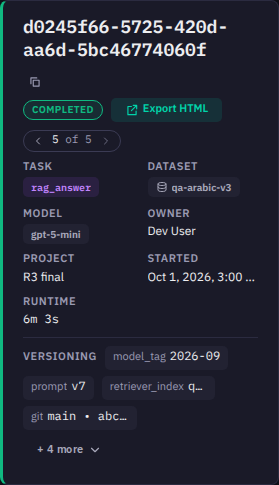
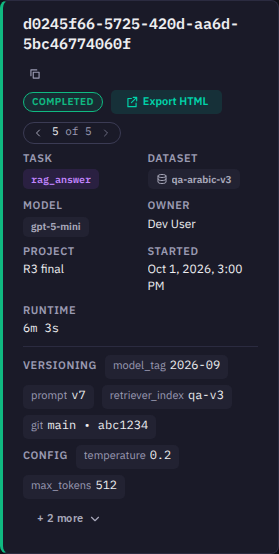
fix(run-detail): round 3 review fixes (header on a phone, section heights, curve labels, box hover)
Compact chip clamp five lines (six chips visible) and no truncated facts or chips at 279px; section-level height
ceilings measured and amended in run-detail.md (repeat, categories, header); by-pass and category rows are compact;
no duplicate curve label at k=1 and no label on the last x tick; box plot Mean hit area is the diamond only; the 390
by-pass table keeps Errors inside the card.

diff --git a/frontend/e2e/run-detail/redesign3-header.spec.ts b/frontend/e2e/run-detail/redesign3-header.spec.ts
@@ -81,10 +81,19 @@ for (const width of [1440, 390]) {
       await expect(h.getByTestId('hero-runtime')).toBeVisible();
       // versioning, git, config and the first metadata chips are in view without a click
       const band = h.getByRole('group', { name: 'Versioning, config and metadata' });
-      // (at 279px the three-line clamp holds the versioning chips; config and metadata wait behind "+ N more":
-      // deviation recorded in redesign3/impl-notes.md)
-      const texts = ['model_tag', '2026-09', 'prompt', 'v7', 'retriever_index', 'qa-v3'];
-      if (width === 1440) texts.push('main • abc1234', 'temperature', '0.2', 'max_tokens', '512');
+      const texts = [
+        'model_tag',
+        '2026-09',
+        'prompt',
+        'v7',
+        'retriever_index',
+        'qa-v3',
+        'main • abc1234',
+        'temperature',
+        '0.2',
+        'max_tokens',
+        '512',
+      ];
       for (const text of texts) {
         const el = band.getByText(text, { exact: true }).first();
         await expect(el).toBeVisible();
@@ -103,7 +112,7 @@ for (const width of [1440, 390]) {
     test('P6-3, P6-4: height ceilings and the first section close to the top', async ({ page }) => {
       await openRun(page, s.slug, classic);
       const h = (await hero(page).boundingBox())!.height;
-      const ceiling = width === 1440 ? 200 : 520;
+      const ceiling = width === 1440 ? 200 : 570; // compact ceiling amended 520 -> 570 (run-detail.md P6-3)
       expect(h).toBeLessThanOrEqual(ceiling);
       if (width === 1440) {
         const top = await page
@@ -229,9 +238,7 @@ test('P6-8, P6-9: the clamp keeps 54px (84 compact), "+ N more" is exact, openin
   await page.evaluate(() => localStorage.removeItem('qym:run-hero-more'));
 });
 
-test('P6-8 compact: three lines (84px); fewer than six chips fit at 279px (deviation in impl-notes)', async ({
-  page,
-}) => {
+test('P6-8 compact: five lines (144px, spec amended) and at least six chips at 279px', async ({ page }) => {
   await page.setViewportSize({ width: 390, height: 900 });
   await page.route(new RegExp(`/api/runs/${classic}\\?view=compact`), async (route) => {
     const res = await route.fetch();
@@ -251,9 +258,9 @@ test('P6-8 compact: three lines (84px); fewer than six chips fit at 279px (devia
       visible: chips.filter((c) => c.getBoundingClientRect().bottom <= b.bottom + 1).length,
     };
   });
-  expect(info.height).toBeLessThanOrEqual(84 + 1);
-  expect(info.visible).toBeGreaterThanOrEqual(3);
-  expect((await hero(page).boundingBox())!.height).toBeLessThanOrEqual(520);
+  expect(info.height).toBeLessThanOrEqual(144 + 1);
+  expect(info.visible).toBeGreaterThanOrEqual(6);
+  expect((await hero(page).boundingBox())!.height).toBeLessThanOrEqual(570);
   await expect(hero(page).getByRole('button', { name: /^\+ \d+ more$/ })).toBeVisible();
 });
 

diff --git a/frontend/e2e/run-detail/redesign3-repeat.spec.ts b/frontend/e2e/run-detail/redesign3-repeat.spec.ts
@@ -158,9 +158,14 @@ for (const width of [1440, 390]) {
       await expect(grid.getByRole('row')).toHaveCount(11);
       const bars = panel.getByRole('group', { name: 'Items by number of passes that passed' });
       await expect(bars.locator('[data-part=count]')).toHaveCount(11);
-      const h = (await panel.boundingBox())!.height;
-      // P2-12 asks 1,750 at 390; the real 279px column needs about 1,900 (deviation recorded in redesign3/impl-notes.md)
-      expect(h).toBeLessThanOrEqual(width === 1440 ? 1150 : 1900);
+      // Errors stays inside the card on the phone column (the table does not scroll away from it)
+      const err = await grid.getByRole('columnheader', { name: /Errors/ }).boundingBox();
+      expect(err!.x + err!.width).toBeLessThanOrEqual(
+        (await card.boundingBox())!.x + (await card.boundingBox())!.width + 1,
+      );
+      // P2-12 is measured on the whole section (header included), as the review did
+      const h = (await page.locator('#run-section-repeat').boundingBox())!.height;
+      expect(h, 'section height').toBeLessThanOrEqual(width === 1440 ? 1150 : 1950);
     });
   });
 }
@@ -193,6 +198,21 @@ test('P2-3: choosing a metric writes ?metric=, survives a reload and keeps every
   const again = page.getByTestId('repeat-analysis');
   await expect(again.getByRole('button', { name: /Metric/ }).first()).toContainText('rubric_metric_03');
   await expect(again.getByRole('region', { name: 'Passes', exact: true }).getByRole('row')).toHaveCount(11);
+});
+
+test('P2-12 numeric: with the by-pass distribution card the section stays within the amended 1,600px (1440) / 2,520px (390)', async ({
+  page,
+}) => {
+  for (const [w, limit] of [
+    [1440, 1600],
+    [390, 2520],
+  ] as const) {
+    await page.setViewportSize({ width: w, height: 1000 });
+    await openRun(page, s.slug, wide, 'panel=repeat&metric=rubric_metric_01');
+    await expect(page.getByRole('region', { name: 'rubric_metric_01 by pass' })).toBeVisible();
+    const h = (await page.locator('#run-section-repeat').boundingBox())!.height;
+    expect(h, `numeric section at ${w}`).toBeLessThanOrEqual(limit);
+  }
 });
 
 test('P2-4 numeric metric: three tiles', async ({ page }) => {

diff --git a/frontend/src/features/run-detail/components/panels/PassTable.tsx b/frontend/src/features/run-detail/components/panels/PassTable.tsx
@@ -83,7 +83,8 @@ export function PassTable({
     type: 'text',
     align: 'end',
     mono: true,
-    minWidth: compact ? 92 : 128,
+    width: compact ? 110 : undefined,
+    minWidth: compact ? 80 : 128,
     cell: (p) => {
       const v = p.metric_means?.[m];
       const dir = model.metricDirections[m] ?? null;
@@ -118,7 +119,8 @@ export function PassTable({
       label: 'Pass',
       pin: 'start',
       lockOrder: true,
-      minWidth: compact ? 84 : 104,
+      width: compact ? 84 : undefined,
+      minWidth: compact ? 72 : 104,
       cell: (p) => (
         <Link
           to={`${basePath}?pass=${p.pass_number}`}
@@ -160,7 +162,8 @@ export function PassTable({
       id: 'errors',
       header: 'Errors',
       label: 'Errors',
-      minWidth: 56,
+      width: compact ? 62 : undefined,
+      minWidth: compact ? 44 : 56,
       align: 'end',
       mono: true,
       cell: (p) => (
@@ -232,7 +235,7 @@ export function PassTable({
         columns={columns}
         rows={passes}
         rowKey={(p) => p.pass_number}
-        density="regular"
+        density="compact"
         densityLocked
         columnMenu={false}
         zebra={false}

diff --git a/frontend/src/features/run-detail/components/RunHero.module.css b/frontend/src/features/run-detail/components/RunHero.module.css
@@ -249,8 +249,20 @@
     grid-template-columns: repeat(2, minmax(0, 1fr));
   }
 
+  /* five lines on a phone column: six chips (versioning, git and the config chips) show without "+ N more"
+     (spec amended from three lines: with three group labels in 237px a line holds one or two chips) */
   .flow {
-    max-block-size: calc(3 * var(--control-height) + 12px);
+    max-block-size: calc(5 * var(--control-height) + 24px);
+  }
+
+  .name {
+    font-size: var(--font-lg);
+  }
+
+  /* a Started value wraps instead of ending in an ellipsis */
+  .factValue {
+    white-space: normal;
+    overflow-wrap: anywhere;
   }
 
   .contextRow {
@@ -262,8 +274,8 @@
     align-self: flex-start;
   }
 
-  /* two chips per line: a long chip truncates instead of dropping off the clamp; a group label keeps its line with its first chip */
+  /* a chip may take the whole line before it ellipsises; a group label keeps its line with its first chip */
   .chipWrap {
-    max-inline-size: calc(50% - var(--space-xs));
+    max-inline-size: 100%;
   }
 }

diff --git a/frontend/e2e/run-detail/redesign3-categories.spec.ts b/frontend/e2e/run-detail/redesign3-categories.spec.ts
@@ -79,15 +79,13 @@ for (const width of [1440, 390]) {
       expect(await page.evaluate(() => document.documentElement.scrollWidth <= window.innerWidth)).toBe(true);
     });
 
-    test('P3-8: the section with the 24-value key is at most 460px (900px at 390), collapsed (body, header excluded)', async ({
+    test('P3-8: the whole section with the 24-value key is at most 540px at 1440 (spec amended from 460) and 740px at 390, collapsed', async ({
       page,
     }) => {
       await openRun(page, s.slug, many, 'panel=categories');
       await expect(page.getByTestId('category-row').first()).toBeVisible();
-      const body = await page
-        .locator(`${section} > div:last-child`)
-        .evaluate((el) => el.getBoundingClientRect().height);
-      expect(body).toBeLessThanOrEqual(width === 1440 ? 460 : 900);
+      const h = (await page.locator(section).boundingBox())!.height;
+      expect(h, 'section height').toBeLessThanOrEqual(width === 1440 ? 540 : 740);
     });
   });
 }

diff --git a/frontend/src/features/run-detail/components/charts/Charts.tsx b/frontend/src/features/run-detail/components/charts/Charts.tsx
@@ -675,7 +675,12 @@ export function Curve({
                   const pos = ks.indexOf(p.k);
                   if (!labelled.has(pos)) return null;
                   // The first series reads above its points, the second below (Pass@k above, Pass^k below).
-                  const below = si === 1;
+                  let below = si === 1;
+                  // Coincident points (k = 1): one label, from the first series.
+                  const first = series[0]?.points.find((q) => q.k === p.k)?.value;
+                  if (si === 1 && first != null && Math.abs(first - p.value!) < 1e-9) return null;
+                  // A label below a point near the baseline would sit on the x tick: put it above instead.
+                  if (below && sy(p.value!) + 17 > H - pad.b + 6) below = false;
                   return (
                     <text
                       key={`l${p.k}`}

diff --git a/frontend/e2e/run-detail/redesign3-charts.spec.ts b/frontend/e2e/run-detail/redesign3-charts.spec.ts
@@ -229,7 +229,7 @@ for (const width of WIDTHS) {
       }
     });
 
-    test('P1-10: the curve labels Pass@k above and Pass^k below each labelled point (4 per series wide, 2 narrow), with a halo', async ({
+    test('P1-10: the curve labels Pass@k above and Pass^k below each labelled point (3 to 4 per series wide, 1 to 2 narrow; the coincident k=1 label is printed once), with a halo', async ({
       page,
     }) => {
       await openRun(page, s.slug, wide, 'panel=repeat');
@@ -254,7 +254,7 @@ for (const width of WIDTHS) {
       });
       expect(info.halo).toBe(true);
       expect(info.bySeries['Pass@k']).toBe(width === 1440 ? 4 : 2);
-      expect(info.bySeries['Pass^k']).toBe(width === 1440 ? 4 : 2);
+      expect(info.bySeries['Pass^k']).toBe(width === 1440 ? 3 : 1);
       expect(info.aboveY).toBe(true);
     });
   });

diff --git a/frontend/e2e/run-detail/redesign3-box-plots.spec.ts b/frontend/e2e/run-detail/redesign3-box-plots.spec.ts
@@ -149,6 +149,10 @@ for (const width of [1440, 390]) {
       const box = c.locator('[data-mark-kind=box]').first();
       await box.hover({ position: { x: 3, y: 5 }, force: true });
       await expect(page.getByRole('tooltip')).toContainText('Middle 50%');
+      // the middle of the box body reads the box too: the mean hit area is the diamond only
+      const bb = (await box.boundingBox())!;
+      await page.mouse.move(bb.x + bb.width * 0.2, bb.y + bb.height / 2);
+      await expect(page.getByRole('tooltip')).toContainText('Middle 50%');
     });
 
     test('P7-9: Tab order box, low whisker, high whisker, min, max; Enter on the box filters; Enter on a dot opens the item; Escape closes a tooltip', async ({

diff --git a/frontend/e2e/run-detail/overview.spec.ts b/frontend/e2e/run-detail/overview.spec.ts
@@ -76,7 +76,7 @@ test.describe('open a run (J1, scenario 1)', () => {
     const hero = page.getByRole('region', { name: 'Run summary' });
     await expect(hero.getByRole('link', { name: 'rag_answer' })).toBeVisible();
     const h = await hero.boundingBox();
-    expect(h!.height).toBeLessThanOrEqual(520);
+    expect(h!.height).toBeLessThanOrEqual(570); // compact ceiling amended 520 -> 570 (run-detail.md P6-3)
     const overview = (await page.locator('#run-section-overview').boundingBox())!;
     expect(overview.y).toBeLessThan(1100);
   });

diff --git a/frontend/src/features/run-detail/components/charts/BoxPlot.tsx b/frontend/src/features/run-detail/components/charts/BoxPlot.tsx
@@ -302,14 +302,11 @@ export function BoxPlot({
               data-mark-kind="median"
             />
             <Mark
-              as="rect"
+              as="path"
               className={styles.hit}
               tabIndex={-1}
               tip={`Mean ${fmt(s.mean)}`}
-              x={meanX - 6}
-              y={cy - 6}
-              width={12}
-              height={12}
+              d={diamond(meanX, cy)}
               data-mark-kind="mean"
             />
             {[...lowDots, ...highDots].map((v, i) => (

diff --git a/frontend/src/features/run-detail/components/panels/Categories.module.css b/frontend/src/features/run-detail/components/panels/Categories.module.css
@@ -94,7 +94,7 @@
 .row {
   position: relative;
   inline-size: 100%;
-  block-size: var(--row-regular);
+  block-size: var(--row-compact);
   padding: 0 var(--space-sm);
   border: 0;
   border-block-end: 1px solid var(--border-subtle);

diff --git a/frontend/src/ui/StatTiles/StatTiles.module.css b/frontend/src/ui/StatTiles/StatTiles.module.css
@@ -14,7 +14,7 @@
   flex-direction: column;
   align-items: center;
   justify-content: center;
-  min-height: 112px;
+  min-height: 96px;
   text-align: center;
 }
 
